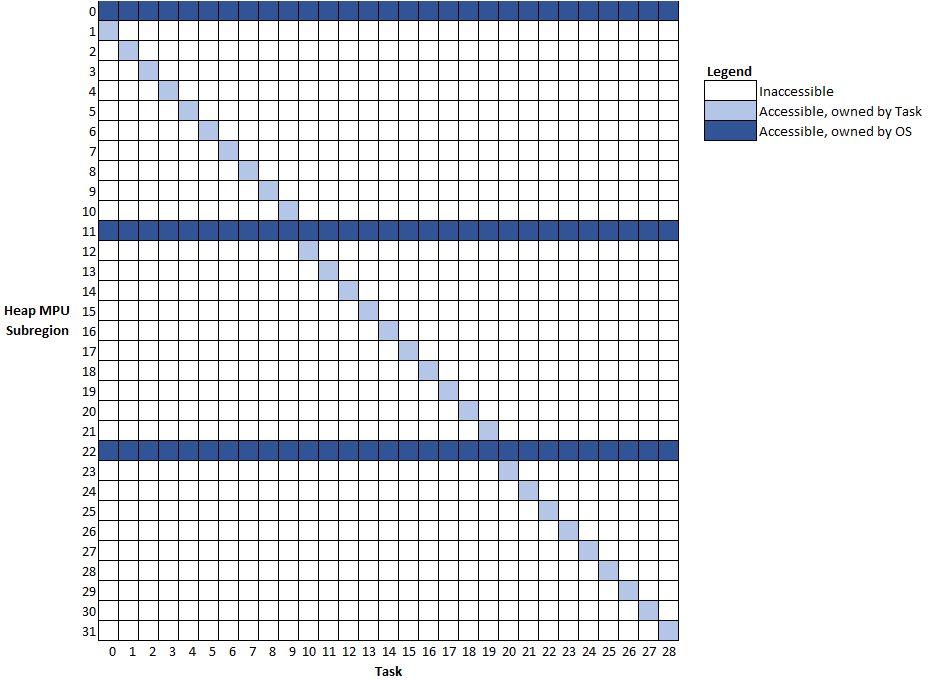
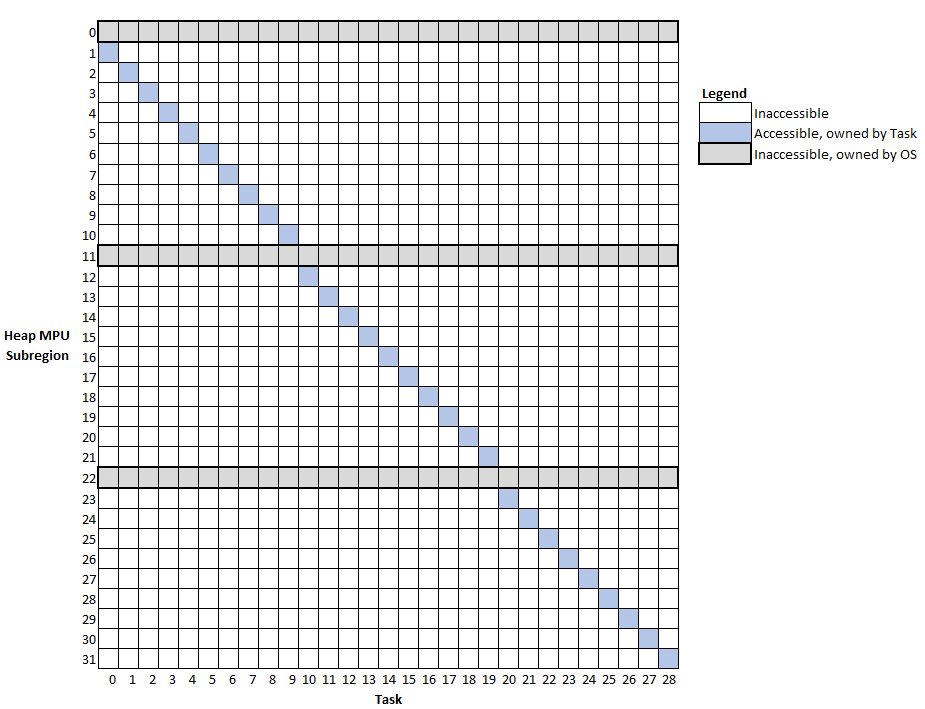
Quick workaround, give stack of process main smaller stack
Needs to fit in one subregion... Need to resolve this bug soon

Changed region(s): [[0.0, 0.0, 0.9989, 1.0]]

diff --git a/report/eval.tex b/report/eval.tex
@@ -2,16 +2,9 @@
 \chapter{Evaluation}
 
 \section{Verifying Stack Protection}
+\label{sec:stack_prot_eval}
 % Create an example program. Show that accessing another task's stack memory yields fault.
 
-\subsection{Reading/Writing Another Task's Stack}
-
-\section{Verifying Heap Protection}
-% Create an example program. Show that accessing another task's heap memory yields fault.
-
-\subsection{Reading/Writing Another Task's Heap Memory}
-
-\subsection{Freeing Another Task's Heap Memory}
 
 \begin{figure}[h]
 	\centering
@@ -20,10 +13,73 @@
 	\label{fig:task_access}
 \end{figure}
 
-Figure \ref{fig:task_access} shows which MPU subregions of the heap are accessible to which task for a system running twenty-nine tasks. One can see that all tasks can access OS subregions -- this is so that OS calls in the same privilege mode can touch OS data structures in the heap. Also, each task is allocated a unique subregion of its own, where its stack is located.
+Figure \ref{fig:task_access} shows which MPU subregions of the heap are accessible to which task for a system running twenty-nine tasks. Each task is allocated a unique subregion of its own, where its stack is located. Certain subregions (marked in gray) are owned by the OS (for storing TCBs) and are not accessible to any task.
+
+In a simpler system, I can verify that accessing another task's stack generates a memory management fault. I spawn two OS tasks that both have access to a global integer pointer. Task A points the pointer to a local variable in its stack. Task B waits until Task A has done this and then tries to dereference the pointer to A's stack. Listing \ref{lst:stack_prot_test} shows the tasks for this test program.
+\begin{lstlisting}[language=c, caption={Stack Protection Test Program}, captionpos=b, label={lst:stack_prot_test}, float]
+Sema4Type sema;
+volatile int *volatile task_a_stack = 0;
+
+void TaskA(void) {
+    volatile int x = 1;
+    task_a_stack = &x;
+    OS_bSignal(&sema); // Signal Task A to run
+    while (1);
+}
+
+void TaskB(void) {
+    OS_bWait(&sema); // Wait for Task B to signal
+    volatile int z = *task_a_stack; // Should generate MPU fault
+}
+\end{lstlisting}
+
+Indeed, upon running this program, one will see that a memory management fault is triggered immediately after dereferencing the pointer to Task A's stack. My design is successful at protecting a task's stack.
+
+\section{Verifying Heap Protection}
+
+\subsection{Reading/Writing Another Task's Heap Memory}
+
+\begin{lstlisting}[language=c, caption={Heap Protection Test Program (Read/Write)}, captionpos=b, label={lst:heap_prot_test}, float]
+    Sema4Type sema;
+    volatile int *volatile task_a_heap = 0;
+    
+    void TaskA(void) {
+        task_a_heap = (int*)Heap_Malloc(32);
+        OS_bSignal(&sema); // Signal Task A to run
+        while (1);
+    }
+    
+    void TaskB(void) {
+        OS_bWait(&sema); // Wait for Task B to signal
+        volatile int z = *task_a_heap; // Should generate MPU fault
+    }
+\end{lstlisting}
+
+We can modifying Listing \ref{lst:stack_prot_test} slightly to test heap protection as shown in Listing \ref{lst:heap_prot_test}. Rather than point \texttt{task\_a\_heap} at a stack variable, I assign it to the return value of Heap\_Malloc. Once again, Task B encounters a memory management fault upon dereferencing the pointer.
+
+\subsection{Freeing Another Task's Heap Memory}
+
+\begin{lstlisting}[language=c, caption={Heap Protection Test Program (Free)}, captionpos=b, label={lst:heap_free_test}, float]
+    Sema4Type sema;
+    volatile int *volatile task_a_heap = 0;
+    
+    void TaskA(void) {
+        task_a_heap = (int*)Heap_Malloc(32);
+        OS_bSignal(&sema); // Signal Task A to run
+        while (1);
+    }
+    
+    void TaskB(void) {
+        OS_bWait(&sema); // Wait for Task B to signal
+        Heap_Free(task_a_heap); // Should generate MPU fault
+    }
+\end{lstlisting}
+
+With more small modifications, we can make sure that freeing another task's memory is similarly not allowed (Listing \ref{lst:heap_free_test}). Rather than dereference the pointer to Task A's heap memory, Task B passes it to Heap\_Free. Once again, this test succeeds and the access is denied by exception.
 
 \section{Demonstrating Heap Flexibility}
-% Show that my solution better handles dynamic memory use.
+
+In Section \ref{sec:stack_prot_eval} I showed that my solution supports up to twenty-nine tasks if each limits heap consumption to one subregion. However, my solution is flexible enough to allow greater consumption of the heap per-task. I will demonstrate the other extreme case where one task is able to allocate 14836 bytes at maximum on the heap (not including its stack memory).
 
 \section{Measuring Context Switch Overhead}
 

diff --git a/report/conclusion.tex b/report/conclusion.tex
@@ -3,13 +3,13 @@
 
 \section{Summary}
 
-In this project, I have demonstrated a low-overhead implementation of memory protection that is capable of protecting tasks' stack and heap memory in a real-time operating system.
+In this project, I have demonstrated a low-overhead implementation of memory protection that is capable of protecting heap memory, task stacks, and process code and data in a real-time operating system.
 
 \section{Future Work}
 
 \subsection{Addressing the Task Limit}
 
-As mentioned previously, my solution limits the number of tasks in the system to a maximum of twenty-nine. This is because the MPU uses four regions to span the heap, which yields thirty-two subregions in which to store task stacks, three of which are consumed by the OS.
+As mentioned previously, my solution limits the number of tasks in the system to a maximum of twenty-nine. This is because the MPU uses four regions to span the heap, which yields thirty-two subregions in which to store task stacks, three of which are consumed by the OS. One way to address this is to make memory protection optional. In this scenario, the programmer is left to explicitly configure certain task stacks, memory allocations, and processes as protected. They would use discretion, enabling protection judiciously only for critical memory regions.
 
 \subsection{Supporting Shared Memory}
 
@@ -17,4 +17,4 @@ Most operating systems must support some form of inter-process communication. Cu
 
 \subsection{Supporting Dynamic Linking}
 
-In lab 5, the OS supported dynamic linking, a process by which the OS replaces placeholder function calls in the loaded process with the actual address of the function provided by the OS. After introducing protection of OS memory, this becomes slightly harder to support, but certainly possible. It just becomes necessary to isolate all OS library code into a separate region of RAM which is configured as accessible to unprivileged code in the MPU. This was deemed out of scope for this project but could easily be implemented on top of my design.
+In lab 5, the OS supported dynamic linking, a process by which the OS replaces placeholder function calls in the loaded process with the actual address of the function. After introducing protection of OS memory, this becomes slightly harder to support, but certainly possible. It just becomes necessary to isolate all OS library code into a separate region of RAM which is configured as accessible to unprivileged code, including process tasks, in the MPU. This was deemed out of scope for this project but could easily be implemented on top of my design.

diff --git a/OS/src/OS.c b/OS/src/OS.c
@@ -52,18 +52,19 @@ static void remove_tcb(tcb_t *tcb);
 static void setup_base_regions(void);
 
 #define PF1 (*((volatile unsigned long *)0x40025008))
+// #define PF5 (*((volatile uint32_t *)0x40025080))
+
 static void PortF_Init(void)
 {
   SYSCTL_RCGCGPIO_R |= 0x20; // activate port F
   while ((SYSCTL_PRGPIO_R & 0x20) == 0)
   {
   };
-  GPIO_PORTF_DIR_R |= 0x0F;    // make PF3-0 output heartbeats
-  GPIO_PORTF_AFSEL_R &= ~0x0F; // disable alt funct on PF3-0
-  GPIO_PORTF_DEN_R |= 0x0F;    // enable digital I/O on PF3-0
-  GPIO_PORTF_PCTL_R = ~0x0000FFFF;
-  GPIO_PORTF_AMSEL_R &= ~0x0F;
-  ; // disable analog functionality on PF
+  GPIO_PORTF_DIR_R |= 0x2F;    // make PF5,3-0 output heartbeats
+  GPIO_PORTF_AFSEL_R &= ~0x2F; // disable alt funct on PF5,3-0
+  GPIO_PORTF_DEN_R |= 0x2F;    // enable digital I/O on PF5,3-0
+  GPIO_PORTF_PCTL_R = ~0x00F0FFFF;
+  GPIO_PORTF_AMSEL_R &= ~0x2F; // disable analog functionality on PF
 }
 
 #if PRIORITY_SCHED
@@ -91,7 +92,7 @@ static void choose_next_with_prio(void)
 
 static void ContextSwitch(bool save_ctx)
 {
-  PF1 = 0x0;
+//   PF5 = 0x0;
   save_ctx_global = save_ctx;
   
     MemProtect_DisableMPU();
@@ -106,7 +107,7 @@ static void IdleTask(void)
 {
   while (1)
   {
-    PF1 = 0x2;
+    // PF5 = 1<<5;
     // Do maintenance
     OS_SVC_Suspend();
   }
@@ -129,7 +130,7 @@ static uint64_t get_system_time(void)
 
 void SysTick_Handler(void)
 {
-  PF1 = 0x0;
+//   PF5 = 0x0;
   ContextSwitch(true);
 #if PRIORITY_SCHED
   // Need to make sure we wrap to list head
@@ -403,6 +404,9 @@ static void insert_tcb(tcb_t *new_tcb) // priority insert
 
 static void setup_base_regions(void)
 {
+  // Privileged software (OS) can access by default if no region maps to address
+  MemProtect_IgnorePrivSW();
+
   // Whole addr space, priv/unpriv r/w
   MemProtect_SelectRegion(0);
   MemProtect_CfgRegion((void *)0, 0x20, AP_PRW_URW);
@@ -1058,7 +1062,6 @@ int OS_AddProcess(void (*entry)(void), void *text, void *data, unsigned long sta
   __Heap_ChangeOwner(text, &new_process->h_o);
   new_process->data = data;
   new_process->text = text;
-  protected_text = text; // For testing memory protection. TODO delete later
   if (__OS_AddThread(entry, stackDWords, priority, "Process main", new_process) == 0)
   {
     return -1;

diff --git a/OS/src/main.c b/OS/src/main.c
@@ -250,7 +250,28 @@ int Load_Process_Main(void)
   return 0;
 }
 
+#define MAX_ALLOC 14836
+
+void greedy_task(void)
+{
+    uint8_t *x = (uint8_t*)OS_SVC_Heap_Malloc(MAX_ALLOC);
+    x[0] = 1;
+    x[MAX_ALLOC-1] = 1;
+    while(1);
+}
+
+int greedy_task_main(void)
+{
+  OS_Init();
+  OS_AddThread(greedy_task, 32, 0);
+  OS_Launch(TIME_1MS);
+  while (1)
+    ;
+  return 0;
+    
+}
+
 int main(void)
 {
-  return idle_main();
+  return Load_Process_Main();
 }

diff --git a/OS/inc/loader_config.h b/OS/inc/loader_config.h
@@ -76,7 +76,7 @@ void LOADER_CLEAR(void* ptr, size_t size) { int i; int32_t *p;
 }
 #define LOADER_STREQ(s1, s2) (strcmp(s1, s2) == 0)
 
-#define LOADER_JUMP_TO(entry, text, data) OS_SVC_AddProcess(entry, text, data, 128, 1)
+#define LOADER_JUMP_TO(entry, text, data) OS_SVC_AddProcess(entry, text, data, 60, 1)
 
 #define DBG(...) 
 #define ERR(msg) UART_OutString("ELF: " msg "\n\r")

diff --git a/OS/inc/memprotect.h b/OS/inc/memprotect.h
@@ -21,6 +21,11 @@
 #define AP_PRO_UNA (5) //!< Privileged read-only, unprivileged no access
 #define AP_PRO_URO (6) //!< Privileged read-only, unprivileged read-only
 
+static inline void MemProtect_IgnorePrivSW(void)
+{
+    NVIC_MPU_CTRL_R |= 4;
+}
+
 /**
  * @brief Select a region to configure.
  * 

diff --git a/report/main.tex b/report/main.tex
@@ -19,7 +19,7 @@
 
 \begin{document}
 
-\title{Memory Protection with the MPU \\
+\title{Lightweight Memory Protection with the MPU \\
     \large EE380L Grad Project}
 \author{Riley Wood}
 \date{Spring 2019}
